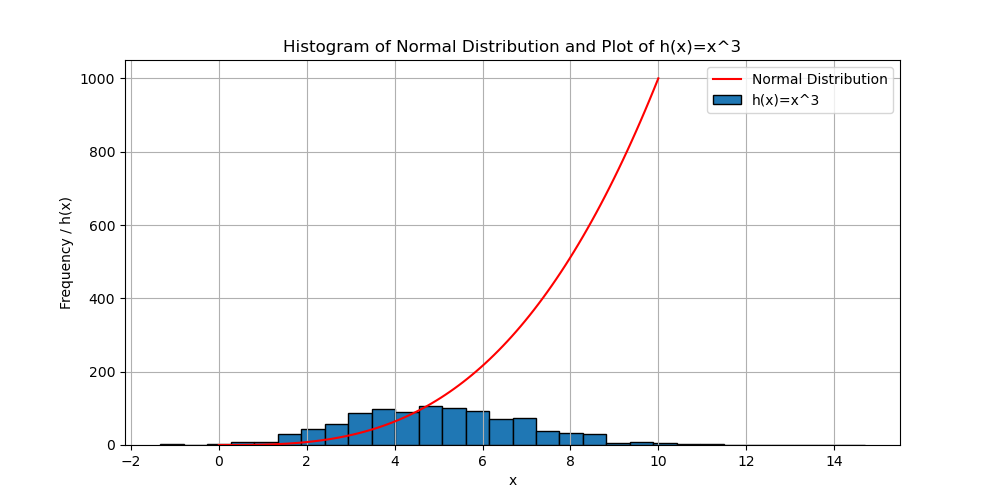
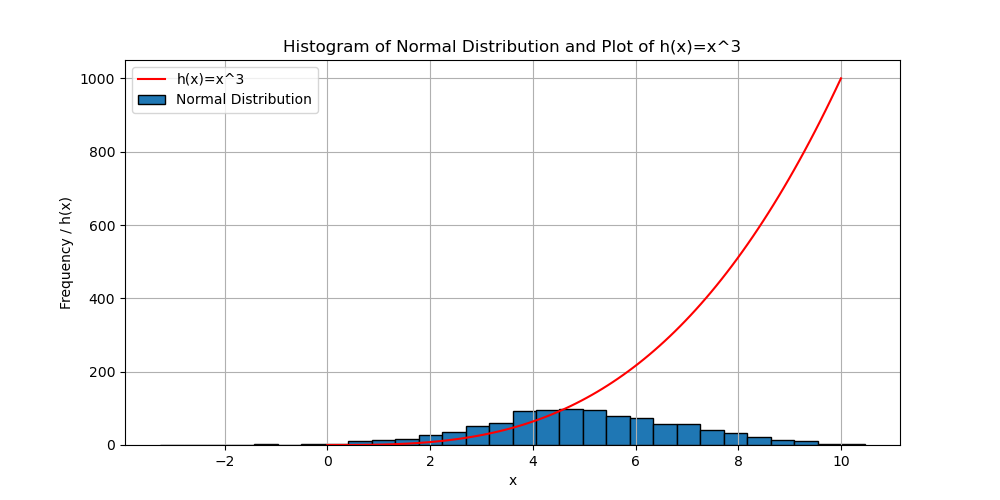
fixed the ledgend of the plot

diff --git a/plottask.py b/plottask.py
@@ -30,7 +30,7 @@ plt.ylabel('Frequency / h(x)')
 plt.title('Histogram of Normal Distribution and Plot of h(x)=x^3')
 
 # add legend
-plt.legend(['Normal Distribution', 'h(x)=x^3'])
+plt.legend(['h(x)=x^3','Normal Distribution'])
 
 # add grid
 plt.grid(True)
